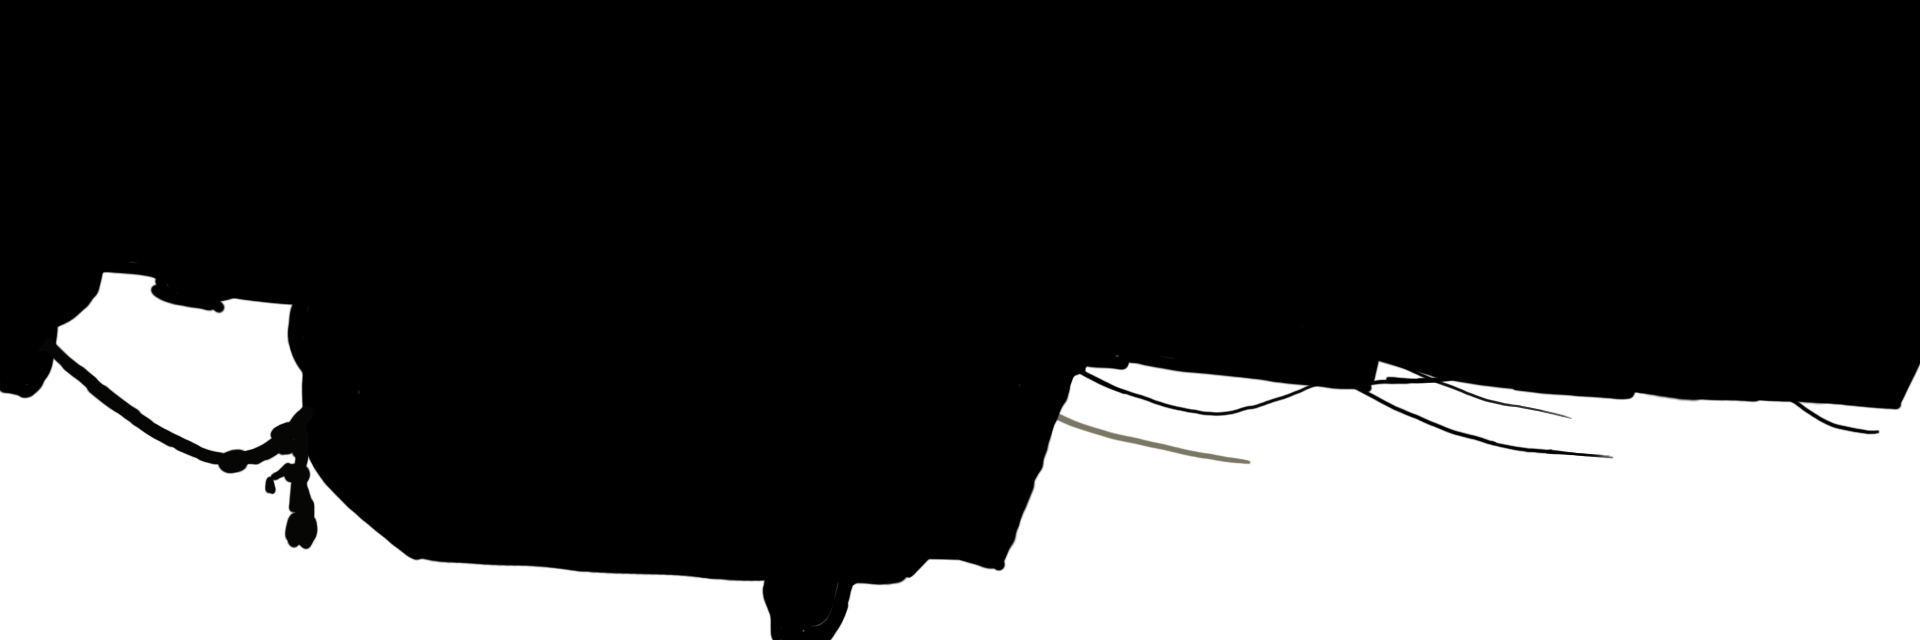
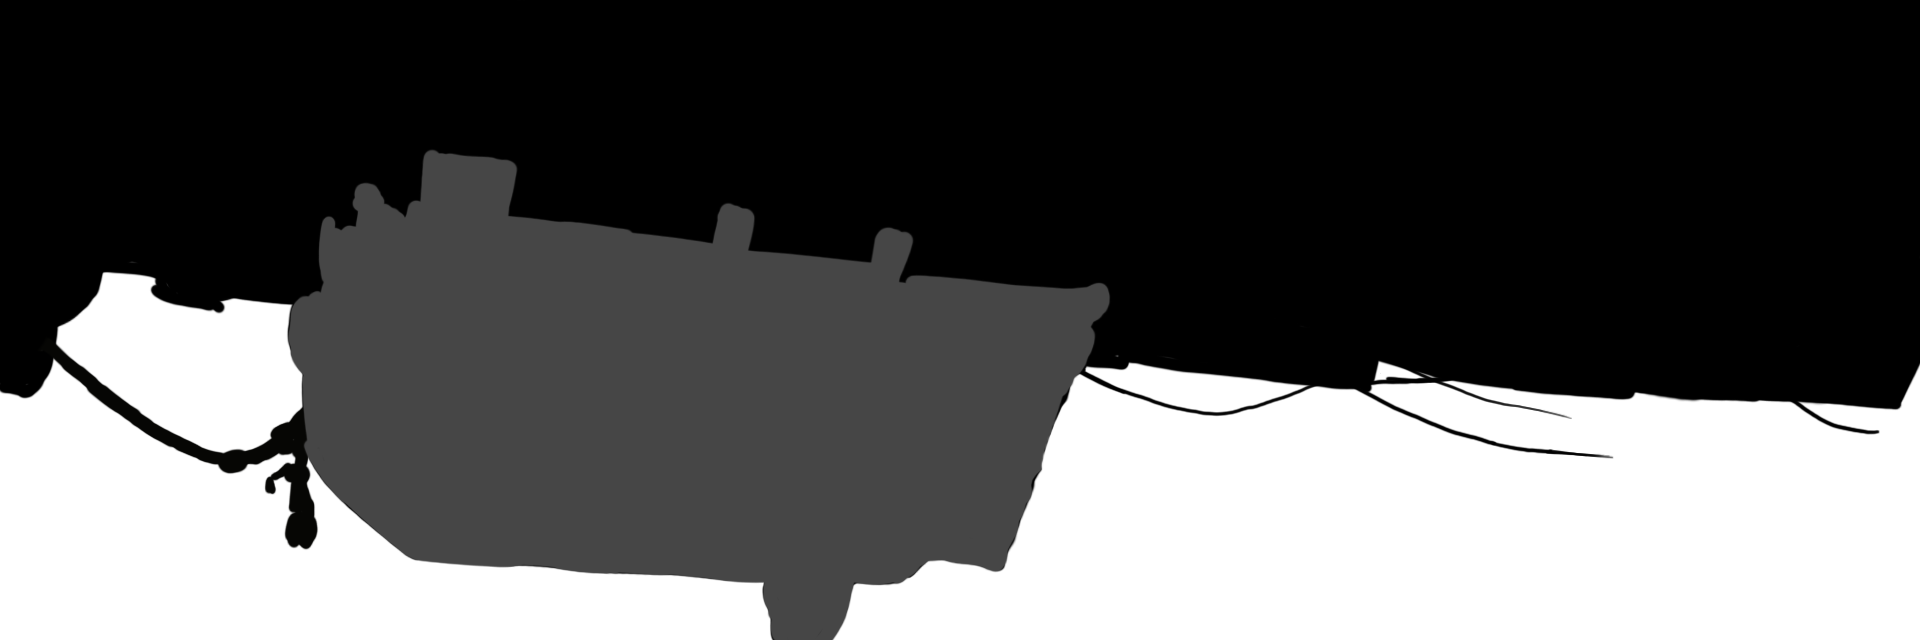
Replaced If statements, Added new mask and tidied up old code.

Changed region(s): [[0.125, 0.2188, 0.5938, 1.0], [0.5938, 0.6875, 0.6562, 0.7188]]

diff --git a/sketch.js b/sketch.js
@@ -7,6 +7,8 @@ let sourceFile = "input_1.jpg";
 let maskFile   = "mask_1.png";
 let outputFile = "output_1.png";
 
+angleMode(DEGREES)
+
 function preload() {
   sourceImg = loadImage(sourceFile);
   maskImg = loadImage(maskFile);
@@ -24,7 +26,7 @@ function setup () {
 }
 
 function draw () {
-  for(let i=0;i < 3000;i++) {
+  for(let i=0;i < 15000;i++) {
     let x = floor(random(sourceImg.width));
     let y = floor(random(sourceImg.height));
     let pix = sourceImg.get(x, y);
@@ -32,23 +34,23 @@ function draw () {
 
     fill(pix);
 
-    if(mask[0] < 128) {
-      let pointSize = 10;
-      for(let ii = 0; ii < 10; ii++) {
-        strokeWeight(0)
-        rect(x, y, pointSize, pointSize,0);
-      }
+    if(mask[0] < 5 && i < 3000 ){ //black
+      let pointSize = 8;
+      strokeWeight(0)
+      rect(x, y, pointSize, pointSize,1);
     }
-    else {
-      let pointSize = 6;
-      for(let a = 0; a < 50; a++) {
-        stroke(pix)
-        strokeWeight(pointSize)
-        line(x, y, x + 50, y)
 
-      //ellipse(x, y, pointSize, pointSize);
-      //ellipse(x + (a + 5), y, pointSize, pointSize);
+    else if(mask[0] > 5 && mask[0] < 200) { //grey
+      let pointSize = 4;
+      strokeWeight(0);
+      rect(x, y, pointSize, pointSize,2)
     }
+
+    else if(mask[0] > 200 && i < 1500){ //white
+      let pointSize = 6;
+      stroke(pix)
+      strokeWeight(pointSize)
+        line(x - 15, y, x + 15, y)
     }
   }
   renderCounter = renderCounter + 1;

diff --git a/README.md b/README.md
@@ -1,11 +1,33 @@
-Changed the default input images to one of a Chinese junk dock and a fishing boat sailing infront of a warship
-Also made and added their respective mattes
+if(mask[0] < 5 && i < 3000 ){ //black
+  let pointSize = 8;
+  strokeWeight(0)
+  rect(x, y, pointSize, pointSize,1);
+}
 
-Changed ellipses to lines for drawing water and muddled around adding loops within the if statement to independantly
-change quantity of shapes drawn over each matte 
+else if(mask[0] > 5 && mask[0] < 200) { //grey
+  let pointSize = 4;
+  strokeWeight(0);
+  rect(x, y, pointSize, pointSize,2)
+}
 
-My two main ideas at this stage is either water or space themed, water because the code allows for a water effect to be made.
-space would allow me to draw lines to make the subject look like its moving.
+else if(mask[0] > 200 && i < 1500){ //white
+  let pointSize = 6;
+  stroke(pix)
+  strokeWeight(pointSize)
+    line(x - 15, y, x + 15, y)
+}
 
-So far with the water theme I want to maybe highlight the junk in the centre frame, maybe use another matte to highlight it
-with more detailed pixels
+Made new mask with grey where the junk is, my last plan to draw more pixels didn't work and ended up drawing multiple pixels over each other\
+
+New if statements allow
+  - ability to differentiate between grey, white and black portions of the mask_1
+  - control the amount of pixels drawn in each mask area
+
+My original photo meant that the image was hard to discern what it was. My new if statements along with the masks ability to control the number
+of pixels in each sections means I can control the 'resolution' of each section, highlighting the focus of the image.
+
+Fine tuned the drawing of water and background. original water looked like it was bleeding into the surrounding objects.
+
+Future updates
+Add randomness  to length of stroke for the water, to make it feel more fluid / dynamic
+desaturate certain parts of the image? 
